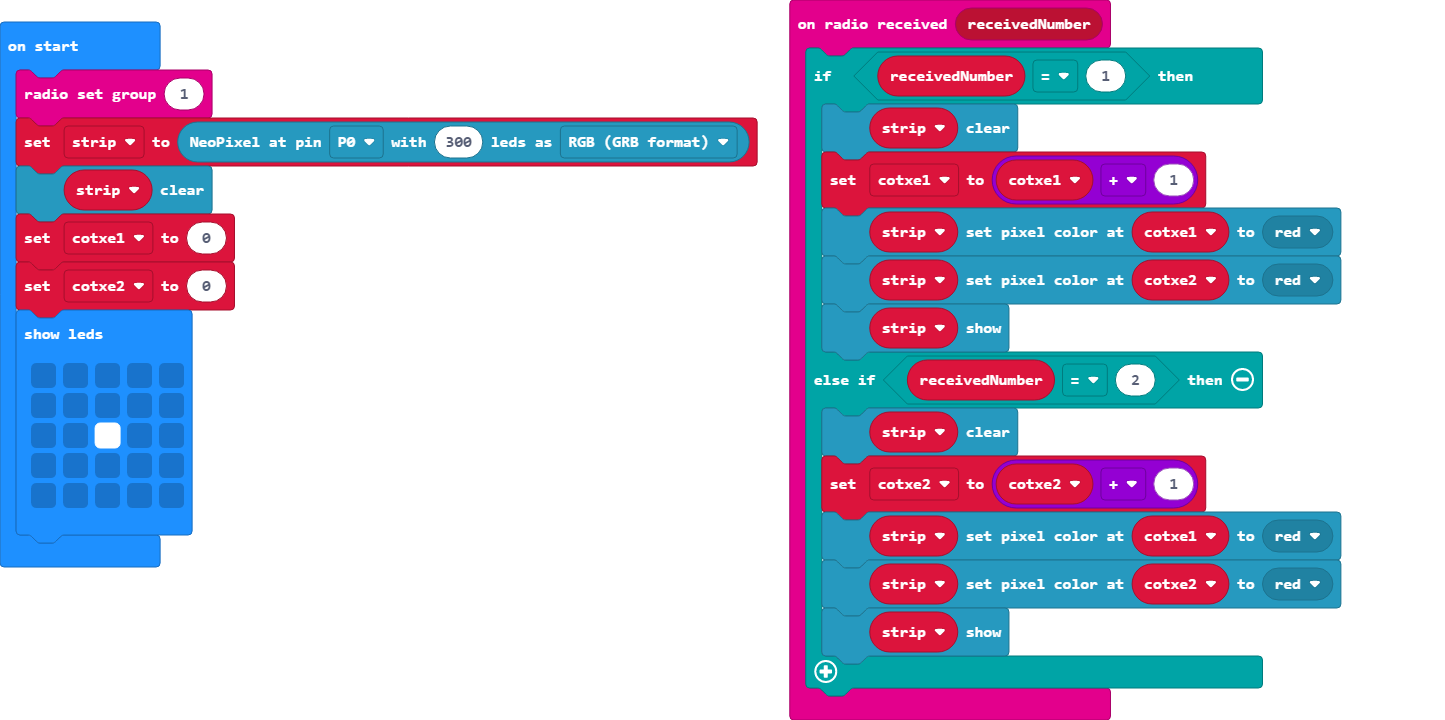
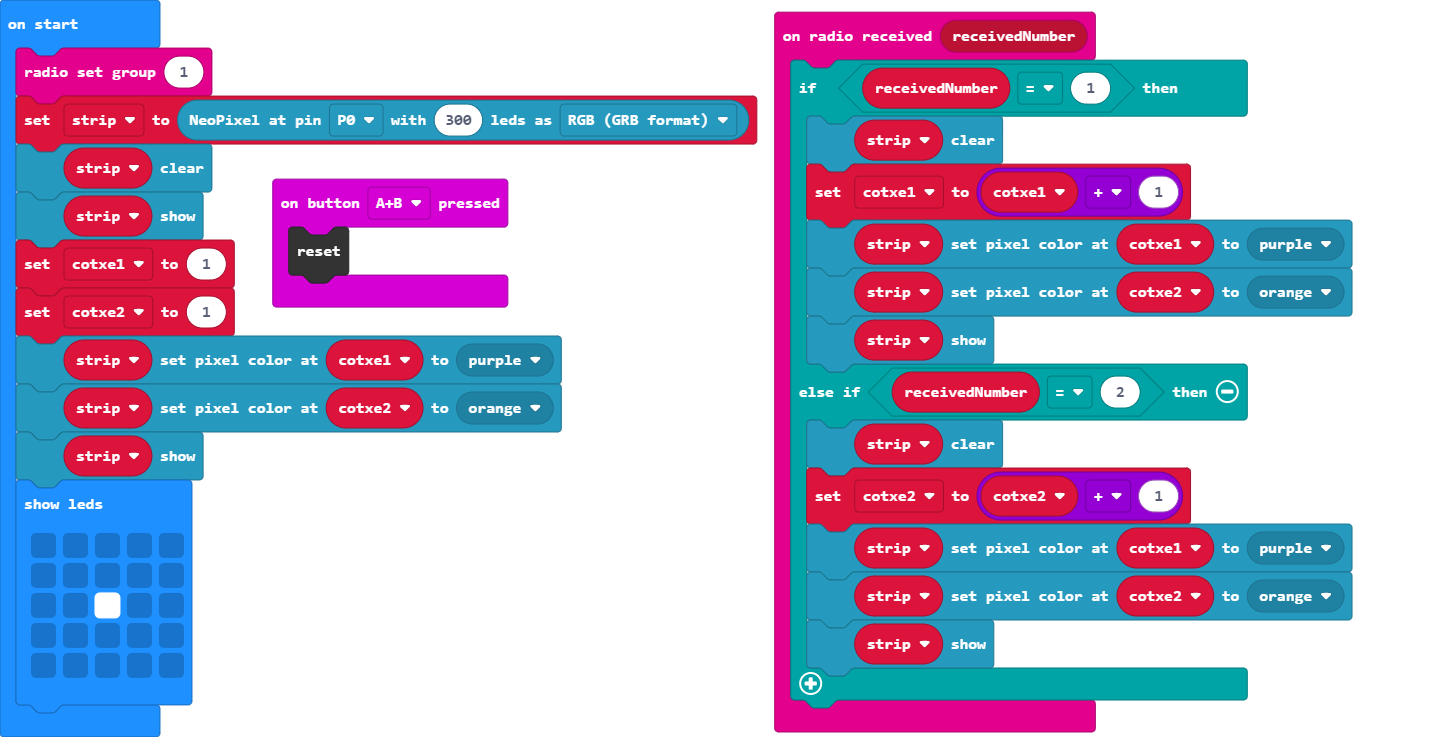
Update main.blocks, main.ts

diff --git a/main.ts b/main.ts
@@ -2,16 +2,19 @@ radio.onReceivedNumber(function (receivedNumber) {
     if (receivedNumber == 1) {
         strip.clear()
         cotxe1 = cotxe1 + 1
-        strip.setPixelColor(cotxe1, neopixel.colors(NeoPixelColors.Red))
-        strip.setPixelColor(cotxe2, neopixel.colors(NeoPixelColors.Red))
+        strip.setPixelColor(cotxe1, neopixel.colors(NeoPixelColors.Purple))
+        strip.setPixelColor(cotxe2, neopixel.colors(NeoPixelColors.Orange))
         strip.show()
     } else if (receivedNumber == 2) {
         strip.clear()
         cotxe2 = cotxe2 + 1
-        strip.setPixelColor(cotxe1, neopixel.colors(NeoPixelColors.Red))
-        strip.setPixelColor(cotxe2, neopixel.colors(NeoPixelColors.Red))
+        strip.setPixelColor(cotxe1, neopixel.colors(NeoPixelColors.Purple))
+        strip.setPixelColor(cotxe2, neopixel.colors(NeoPixelColors.Orange))
         strip.show()
     }
+})
+input.onButtonPressed(Button.AB, function () {
+    control.reset()
 })
 let cotxe2 = 0
 let cotxe1 = 0
@@ -19,8 +22,12 @@ let strip: neopixel.Strip = null
 radio.setGroup(1)
 strip = neopixel.create(DigitalPin.P0, 300, NeoPixelMode.RGB)
 strip.clear()
-cotxe1 = 0
-cotxe2 = 0
+strip.show()
+cotxe1 = 1
+cotxe2 = 1
+strip.setPixelColor(cotxe1, neopixel.colors(NeoPixelColors.Purple))
+strip.setPixelColor(cotxe2, neopixel.colors(NeoPixelColors.Orange))
+strip.show()
 basic.showLeds(`
     . . . . .
     . . . . .
